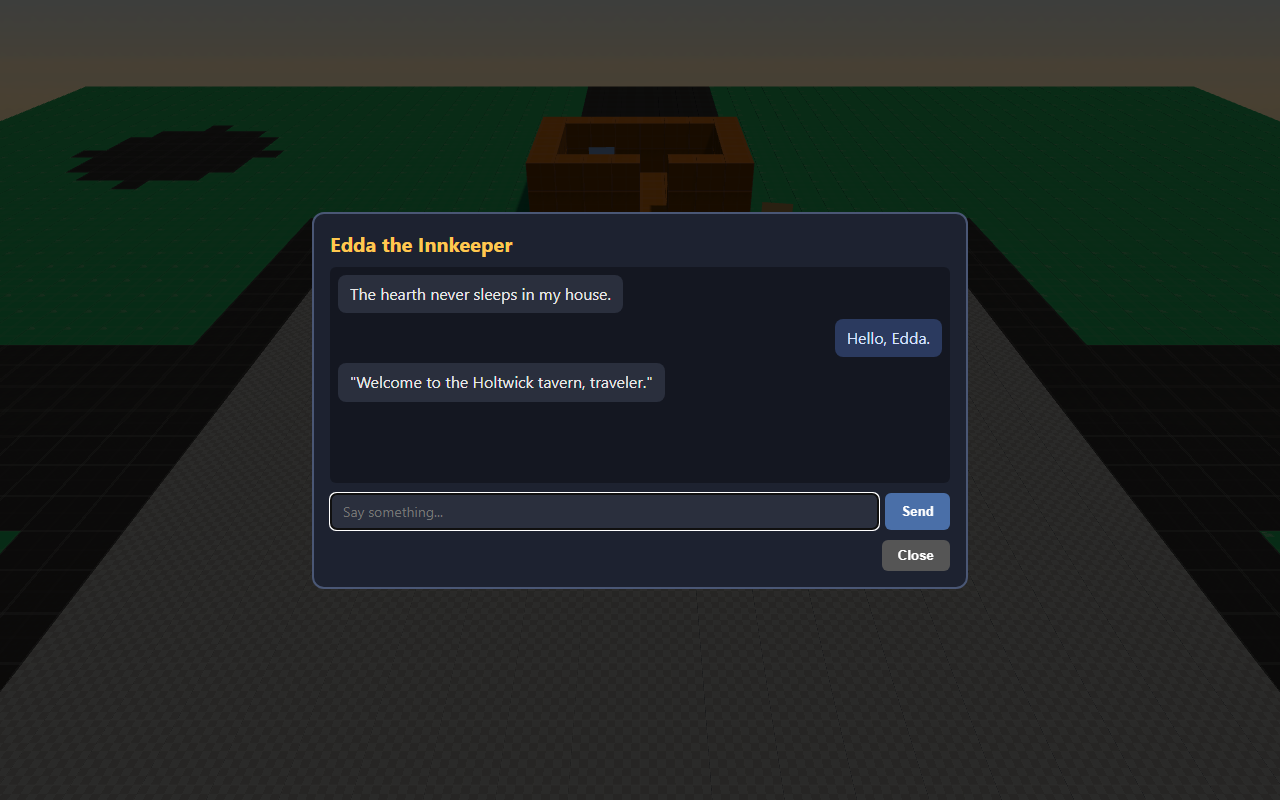
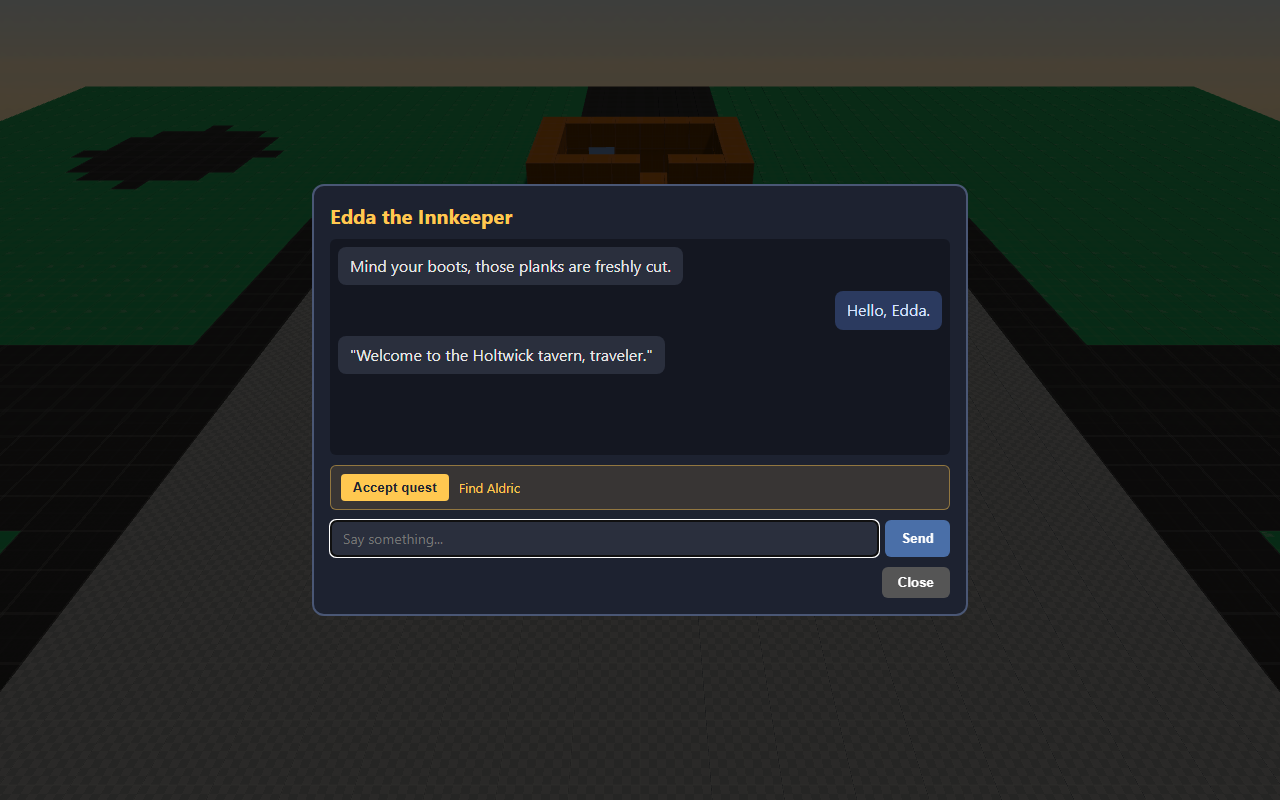
ralph(iter 23): P6.1 quest schema + first quest (Edda → Aldric → 10 gold)
New `src/data/quest.schema.ts` (QuestDef/QuestStatus/QuestState) +
`src/data/quests.ts` (canonical list + `questById`/`questsGivenBy`
helpers) + `src/game/quests.ts` state machine (in-memory map, gold
purse, subscribe/emit, `acceptQuest`/`completeQuest`/`onTalkTo`).
First quest `edda_find_aldric`: Edda offers, accept → in_progress,
opening Aldric's dialog auto-fires the `talk_to` trigger → complete
+ 10 gold awarded.

Dialog UI:
- `index.html` adds `#dialog-quest-row` between chat-messages and the
  input row with warm-amber styling (display:none until the open NPC
  has a `not_started` quest).
- `ui/dialog.ts` openDialog now calls `onTalkTo(npc.id)` to auto-
  complete in_progress `talk_to` quests targeting this NPC, appends
  `[Quest complete: … +N gold]` confirmation lines, and toggles the
  accept-quest row based on `questsGivenBy(npc.id)`. Accept click →
  `acceptQuest(id)` + `[Quest accepted: …]` confirmation line.
- `npcSpawns.ts` left untouched — quest associations derive from
  `QuestDef.giver_npc_id`, no duplication.

Test hook (`__voxelTest__`) extended with `openDialog(npcId?)` +
`acceptQuest` + `getQuestState` + `getQuests` + `getGold`. Existing
no-arg `openDialog()` callers (validate-visual main flow + test-dialog)
stay backward compatible.

Validation: `scripts/validate-visual.mjs` adds the full Edda → accept →
Aldric → complete + 10 gold flow with new
`artifacts/screenshots/iter-${ITER}-quest.png` capture. All three
[…]

Changed region(s): [[0.2188, 0.2188, 0.7812, 0.5], [0.25, 0.5625, 0.75, 0.75], [0.625, 0.3438, 0.75, 0.4688]]

diff --git a/src/game/quests.ts b/src/game/quests.ts
@@ -1,0 +1,79 @@
+// Quest state machine + gold purse. In-memory only for P6.1; localStorage
+// persistence lands with P6.5. Subscribers are notified after every state
+// transition so the HUD (P6.2) can re-render without polling.
+
+import type { QuestDef, QuestState } from "../data/quest.schema";
+import { QUESTS, questById } from "../data/quests";
+
+type Listener = () => void;
+
+const states = new Map<string, QuestState>();
+let gold = 0;
+const listeners = new Set<Listener>();
+
+for (const q of QUESTS) {
+  states.set(q.id, { status: "not_started" });
+}
+
+function emit(): void {
+  for (const l of listeners) l();
+}
+
+export function subscribeQuests(l: Listener): () => void {
+  listeners.add(l);
+  return () => {
+    listeners.delete(l);
+  };
+}
+
+export function getQuestState(id: string): QuestState | undefined {
+  const s = states.get(id);
+  return s ? { ...s } : undefined;
+}
+
+export function getQuests(): Array<{ def: QuestDef; state: QuestState }> {
+  return QUESTS.map((def) => ({
+    def,
+    state: { ...(states.get(def.id) ?? { status: "not_started" }) },
+  }));
+}
+
+export function getGold(): number {
+  return gold;
+}
+
+export function acceptQuest(id: string): boolean {
+  const def = questById(id);
+  const state = states.get(id);
+  if (!def || !state || state.status !== "not_started") return false;
+  state.status = "in_progress";
+  state.accepted_at = Date.now();
+  emit();
+  return true;
+}
+
+export function completeQuest(id: string): boolean {
+  const def = questById(id);
+  const state = states.get(id);
+  if (!def || !state || state.status !== "in_progress") return false;
+  state.status = "complete";
+  state.completed_at = Date.now();
+  gold += def.reward.gold;
+  emit();
+  return true;
+}
+
+// Called when the player opens dialog with `npcId`. Auto-completes any
+// in_progress `talk_to` quest whose target is this NPC. Returns the IDs of
+// quests that just completed so the dialog can render confirmation lines.
+export function onTalkTo(npcId: string): string[] {
+  const completed: string[] = [];
+  for (const def of QUESTS) {
+    const state = states.get(def.id);
+    if (!state || state.status !== "in_progress") continue;
+    if (def.trigger.type === "talk_to" && def.trigger.npc_id === npcId) {
+      if (completeQuest(def.id)) completed.push(def.id);
+    }
+  }
+  return completed;
+}

diff --git a/src/ui/dialog.ts b/src/ui/dialog.ts
@@ -6,6 +6,8 @@
 
 import type { NpcDef } from "../data/npc.schema";
 import { streamProxyReply, warmupProxy } from "../chat/proxy";
+import { questsGivenBy, questById } from "../data/quests";
+import { acceptQuest, getQuestState, onTalkTo } from "../game/quests";
 
 let bound = false;
 let onCloseCb: (() => void) | null = null;
@@ -55,9 +57,43 @@ export function openDialog(npc: NpcDef): void {
   messages.innerHTML = "";
   const greeting = pickRandom(npc.barks_idle) ?? `I am ${npc.name}.`;
   appendMessage("assistant", greeting);
+
+  for (const qid of onTalkTo(npc.id)) {
+    const def = questById(qid);
+    if (def) {
+      appendMessage(
+        "assistant",
+        `[Quest complete: ${def.title} — received ${def.reward.gold} gold]`,
+      );
+    }
+  }
+
+  renderQuestRow(npc);
+
   $("dialog-backdrop").classList.add("show");
   ($("chat-input") as HTMLInputElement).focus();
   warmupProxy();
+}
+
+function renderQuestRow(npc: NpcDef): void {
+  const row = $("dialog-quest-row");
+  const title = $("dialog-quest-title");
+  const btn = $("dialog-quest-accept") as HTMLButtonElement;
+  const available = questsGivenBy(npc.id).find(
+    (q) => getQuestState(q.id)?.status === "not_started",
+  );
+  if (available) {
+    title.textContent = available.title;
+    btn.onclick = () => {
+      if (!acceptQuest(available.id)) return;
+      appendMessage("assistant", `[Quest accepted: ${available.title}]`);
+      renderQuestRow(npc);
+    };
+    row.classList.add("show");
+  } else {
+    row.classList.remove("show");
+    btn.onclick = null;
+  }
 }
 
 export function closeDialog(): void {

diff --git a/src/main.ts b/src/main.ts
@@ -11,6 +11,7 @@ import { NPC_SPAWNS } from "./data/npcSpawns";
 import type { NpcDef } from "./data/npc.schema";
 import { DayNight } from "./world/dayNight";
 import { bindTitle } from "./ui/title";
+import { acceptQuest, getGold, getQuestState, getQuests } from "./game/quests";
 
 bindTitle();
 
@@ -69,9 +70,26 @@ bindInteract((npc) => {
 // `?test=1` exposes a small hook for `scripts/validate-visual.mjs` to drive
 // the dialog without needing to position the player next to an NPC.
 if (typeof location !== "undefined" && new URLSearchParams(location.search).get("test") === "1") {
-  (window as unknown as { __voxelTest__?: { openDialog: () => void } }).__voxelTest__ = {
-    openDialog: () => openDialog(interactables[0].def),
+  interface VoxelTestHook {
+    openDialog: (npcId?: string) => void;
+    acceptQuest: (questId: string) => boolean;
+    getQuestState: typeof getQuestState;
+    getQuests: typeof getQuests;
+    getGold: () => number;
+  }
+  const hook: VoxelTestHook = {
+    openDialog: (npcId?: string) => {
+      const target = npcId
+        ? interactables.find((n) => n.id === npcId)
+        : interactables[0];
+      if (target) openDialog(target.def);
+    },
+    acceptQuest,
+    getQuestState,
+    getQuests,
+    getGold,
   };
+  (window as unknown as { __voxelTest__?: VoxelTestHook }).__voxelTest__ = hook;
 }
 
 function updateCamera() {

diff --git a/index.html b/index.html
@@ -169,6 +169,27 @@
       }
       #dialog-close { background: #555; align-self: flex-end; }
 
+      #dialog-quest-row {
+        display: none;
+        align-items: center;
+        gap: 10px;
+        padding: 8px 10px;
+        background: rgba(255, 200, 80, 0.12);
+        border: 1px solid rgba(255, 200, 80, 0.45);
+        border-radius: 6px;
+      }
+      #dialog-quest-row.show { display: flex; }
+      #dialog-quest-accept {
+        padding: 6px 12px;
+        background: #ffc850;
+        color: #1d2230;
+        border: none;
+        border-radius: 4px;
+        font-weight: 700;
+        cursor: pointer;
+      }
+      #dialog-quest-title { color: #ffc850; font-size: 13px; }
+
       /* Title screen — first thing the player sees */
       #title-screen {
         position: fixed; inset: 0;
@@ -274,6 +295,10 @@
           <div id="dialog-name">NPC</div>
         </div>
         <div id="chat-messages"></div>
+        <div id="dialog-quest-row">
+          <button id="dialog-quest-accept" type="button">Accept quest</button>
+          <span id="dialog-quest-title"></span>
+        </div>
         <div id="chat-input-row">
           <input id="chat-input" type="text" placeholder="Say something..." autocomplete="off" />
           <button id="chat-send" type="button">Send</button>

diff --git a/src/data/quests.ts b/src/data/quests.ts
@@ -1,0 +1,24 @@
+// Canonical quest list. Append new entries here; the state machine in
+// `src/game/quests.ts` discovers them automatically.
+
+import type { QuestDef } from "./quest.schema";
+
+export const QUESTS: QuestDef[] = [
+  {
+    id: "edda_find_aldric",
+    giver_npc_id: "edda",
+    title: "Find Aldric",
+    description:
+      "Edda says Aldric of the Watch stands post on the plaza. Go say hello on her behalf.",
+    trigger: { type: "talk_to", npc_id: "aldric" },
+    reward: { gold: 10 },
+  },
+];
+
+export function questById(id: string): QuestDef | undefined {
+  return QUESTS.find((q) => q.id === id);
+}
+
+export function questsGivenBy(npcId: string): QuestDef[] {
+  return QUESTS.filter((q) => q.giver_npc_id === npcId);
+}

diff --git a/src/data/quest.schema.ts b/src/data/quest.schema.ts
@@ -1,0 +1,19 @@
+// Quest schema. Locked by IMPLEMENTATION_PLAN.md P6.1; trigger union expands
+// in later iters (collect → P6.6, deliver/walk_to → P8.7).
+
+export interface QuestDef {
+  id: string;
+  giver_npc_id: string;
+  title: string;
+  description: string;
+  trigger: { type: "talk_to"; npc_id: string };
+  reward: { gold: number };
+}
+
+export type QuestStatus = "not_started" | "in_progress" | "complete";
+
+export interface QuestState {
+  status: QuestStatus;
+  accepted_at?: number;
+  completed_at?: number;
+}

diff --git a/NOTES.md b/NOTES.md
@@ -44,4 +44,5 @@ iter 17 | done | P2.3 procedural cube-sky (sky.ts; six 256² canvases — gradie
 iter 18 | done | P2.4 procedural village floor — `world/village.ts` `buildVillage(seed)` returns 64×1×64 `VoxelGrid`: 20×20 central stone plaza (`VOXEL_STONE=6`, new const, palette reuses wall stone texture), 7-wide N/S+E/W dirt roads, 2-deep dirt ring framing the plaza, 6 seeded scatter dirt patches (mulberry32 PRNG), and a jittered-edge circular water pond at (12,50) r=8 that only overwrites grass. `rooms.ts` deleted; `main.ts` switched to `buildVillage(1337)`; NPC re-anchored to plaza-SE. Sun position + shadow frustum widened (-30,50,-30) / ±40 / far 140 to cover the 64×64 world. `validate-visual.mjs` swapped flaky `waitForSelector` for `waitForFunction(data-engine attr)` after the bigger world made the prior wait flake. Visual gate iter-18.png shows all four biomes, top-bin 15.96% / 216 bins, no console errors. Build green 474.69 kB. Asset-emission gotcha: Vite collapses two same-basename ?url imports (Orange/texture_04 + Light/texture_04) into one dist file — sidestepped by reusing the wall stone texture for STONE rather than introducing a second `texture_04.png`.
 iter 20 | done-script-blocked-batch | P3.1 sprite generator `tools/genSprites.mjs` (Node ESM) + `npm run gen:sprites`: reads `src/data/npcs/*.json` directly (bypasses Vite-only `npcs.ts` import.meta.glob loader), builds a fantasy-RPG anchor prompt + name/role/bark-keyword visual descriptors per NPC, calls PixelLab `/create-character-with-4-directions` (one POST → 4 dir PNGs), writes `public/sprites/<id>_{south,west,north,east}.png`, skip-if-exists default, --only/--max/--force/--sleep/--dry-run flags. Auth resolution: PIXELLAB_API_KEY → PIXELLAB_TOKEN → ~/.pixellab-token (legacy). Smoke-tested twice: first call returned HTTP 422 telling us `/create-character-with-4-directions` rejects `negative_description` + `no_background` (stripped to the minimal `{description, image_size}` body that the legacy `02-fp` gen.py validates); second call hit HTTP 402 "Insufficient resources. Generations remaining: 0, Credits: 0.0" → blocked on PixelLab credit top-up, not code. Build green 475.57 kB, visual gate iter-20.png unchanged from iter 19 (top-bin 15.96% / 320 bins). Follow-up: P3.1b (run-once + commit PNGs) added to plan, blocked on credits.
 iter 22 | done | P4.2 WebLLM streaming wired into dialog (lazy-load on Send, `isWebGpuUsable()` precheck + scripted-bark fallback, Edda persona via new `tavernCast.ts`, Playwright-asserted via `?test=1` window hook + `iter-${ITER}-dialog.png` capture)
+iter 23 | done | P6.1 quest schema + first quest (Edda→Aldric→10 gold): `data/quest.schema.ts` types + `data/quests.ts` corpus (helpers `questById`, `questsGivenBy`) + `game/quests.ts` state machine (in-memory map, gold purse, subscribe/emit, `acceptQuest`/`completeQuest`/`onTalkTo`); `ui/dialog.ts` openDialog calls `onTalkTo(npc.id)` to auto-complete `talk_to` quests targeting this NPC + appends `[Quest complete: … +N gold]` lines and renders accept-quest row when this NPC has a `not_started` quest; `index.html` adds `#dialog-quest-row` between chat-messages and input-row with warm-amber styling; `main.ts` `__voxelTest__` extended with `openDialog(npcId?)`, `acceptQuest`, `getQuestState`, `getQuests`, `getGold` (no-arg `openDialog()` still defaults to NPC[0] = Edda so validate-visual + test-dialog stay backward compatible). validate-visual asserts Edda→accept→Aldric→complete + 10 gold and captures iter-${ITER}-quest.png. `npcSpawns.ts` deliberately untouched — quest associations derive from `QuestDef.giver_npc_id`. HUD/toast deferred to P6.2 (in-chat confirmation line carries the iter). All 3 gates green (build 489.19 kB, visual top-bin 20.90% / 340 bins, test:dialog all checks pass).
 iter 19 | done | P2.5 tavern building — new `world/tavern.ts` `addTavern(grid, {originX, originZ, doorwayX})` stamps 8×6 outer footprint (6×4 interior) of `VOXEL_PLANKS` floor at y=0 + 2-tall plank wall ring at y=1..2 with a 1-cell doorway gap in the south wall. `village.ts`: `VILLAGE_HEIGHT = 1 + TAVERN_WALL_HEIGHT = 3`; constructor no longer fills the whole volume with `VOXEL_FLOOR` (upper layers must stay empty), explicit y=0 ground fill instead; tavern stamped last at (originX=28, originZ=14, doorwayX=32) so the north dirt road becomes a plank threshold into the door. `player.ts` collision widened: any non-empty voxel at y≥1 in the footprint blocks (legacy `VOXEL_WALL` at y=0 kept for back-compat) — player slides along walls and walks through the doorway. Visual gate iter-19.png shows the orange tavern north of the plaza with a visible doorway gap, top-bin 15.96% / 320 bins (+104 vs iter 18 from plank surfaces), no console errors. Build green 475.57 kB.

diff --git a/IMPLEMENTATION_PLAN.md b/IMPLEMENTATION_PLAN.md
@@ -72,7 +72,7 @@ PixelLab credit-blocked items (P3.1b through P3.3) stay BLOCKED — do not
 attempt sprite generation during this burn even if you walk past them in
 the priority order.
 
-- [ ] **P6.1** Quest schema + first quest (Edda → Aldric → 10 gold reward).
+- [x] ~~**P6.1** Quest schema + first quest (Edda → Aldric → 10 gold reward).
   Files: `src/data/quest.schema.ts` (new), `src/data/quests.ts` (new),
   `src/game/quests.ts` (new) for state machine + event log,
   `src/data/npcSpawns.ts` add optional `quest?: string` per NPC,
@@ -81,7 +81,22 @@ the priority order.
   set state to `in_progress`, fire `onQuestAccepted` event, toast in HUD.
   Walking to Aldric + opening dialog → auto-complete trigger fires (per
   `quest.trigger.type === "talk_to"`), state → `complete`, 10 gold awarded,
-  toast.
+  toast.~~ (iter 23 — schema + state machine + `QUESTS[edda_find_aldric]`
+  shipped; accept row injected between `#chat-messages` and `#chat-input-row`
+  in `index.html` (CSS in same file), `dialog.ts` calls `onTalkTo(npc.id)` on
+  open to auto-complete in_progress `talk_to` quests targeting this NPC and
+  appends `[Quest complete: … +N gold]` lines into the chat for confirmation.
+  `npcSpawns.ts` left untouched — quest associations derive from
+  `QuestDef.giver_npc_id`, no duplication needed. `__voxelTest__` hook
+  extended: `openDialog(npcId?)`, `acceptQuest(id)`, `getQuestState(id)`,
+  `getQuests()`, `getGold()` — existing no-arg callers (validate-visual main
+  flow + test-dialog) keep working since `npcId` is optional. HUD toast
+  intentionally not built here — `P6.2` owns the HUD; the in-chat
+  confirmation line keeps the flow legible without it. `validate-visual.mjs`
+  extended with the full Edda→accept→Aldric→complete flow asserting
+  `getQuestState("edda_find_aldric").status === "complete"` and
+  `getGold() === 10`; capture at `artifacts/screenshots/iter-${ITER}-quest.png`.
+  All three gates green.)
 
   **Schema:**
   ```typescript
